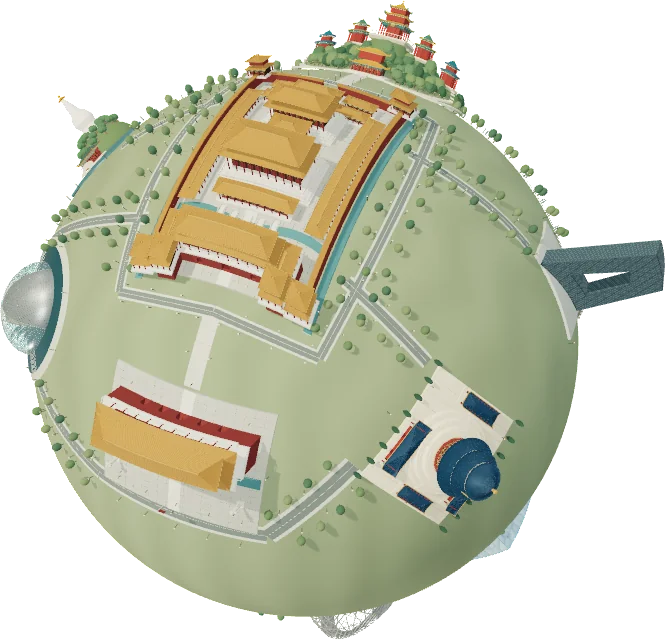
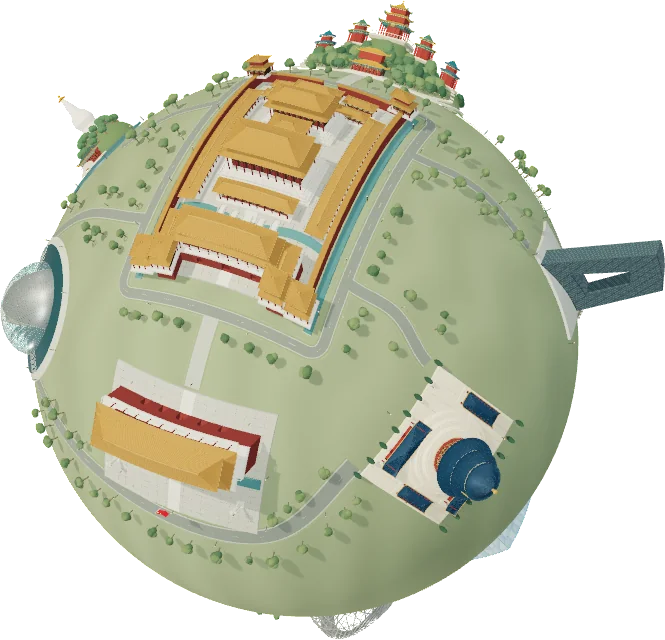
Refine Beijing road curves and natural roadside trees

Changed region(s): [[0.0602, 0.0938, 0.8722, 0.625], [0.0301, 0.5938, 0.5714, 0.9062], [0.5414, 0.125, 0.6015, 0.1562]]

diff --git a/web/beijing-axis.js b/web/beijing-axis.js
@@ -1,61 +1,108 @@
 import * as THREE from 'three';
 
-// Compressed city connections, not navigable real streets.
+// Compressed city connections, not navigable real streets. The ceremonial
+// axis stays straight; rounded corners and garden links soften its outskirts.
 export function createBeijingAxis(k,{radius,landmarks}){
   const g=new THREE.Group();g.name='beijing-axis-landscape';
-  const stone=k.mat('#c2c2b5',.98,0),edge=k.mat('#929a8b',.98,0),asphalt=k.mat('#727e78',.99,0),mark=k.mat('#d3cdb5',.94,0),pole=k.mat('#485b52',.88,0),lamp=k.mat('#ead8b3',.5,.1,'#f4d29b');lamp.userData.night.intensity=.65;
-  const bark=k.mat('#6a6251',1,0),leaves=['#4a6850','#617953','#72845d'].map(c=>k.mat(c,1,0));
-  const points=[],connections=[],roads=[];
+  const stone=k.mat('#a9ada0',.98,0),edge=k.mat('#969d8e',.98,0),asphalt=k.mat('#7b837b',.99,0),mark=k.mat('#b9bba6',.98,0),pole=k.mat('#485b52',.88,0),lamp=k.mat('#d8c6a5',.6,.04,'#f4d29b');lamp.userData.night.intensity=.65;
+  const bark=k.mat('#6d6551',1,0),leaves=['#4e694c','#59734e','#657c53','#708359'].map(c=>k.mat(c,1,0));
+  const verge=k.mat('#ffffff',1,0);verge.vertexColors=true;verge.userData.terrainTint=true;
+  const groundColor=new THREE.Color('#8f9c79'),shadeColor=new THREE.Color('#7c8d68');
+  const points=[],connections=[],roads=[],routes=[],plantings=[];
+  const random=n=>{const x=Math.sin(n*127.1+19.7)*43758.5453;return x-Math.floor(x);};
   const local=(id,x,z)=>{const model=landmarks.get(id);model.updateWorldMatrix(true,true);return model.localToWorld(new THREE.Vector3(x,Math.sqrt(radius*radius-x*x-z*z)-radius,z)).normalize();};
-  function ribbon(route,width,material,lift){
-    const verts=[],ids=[];
+  const pose=(pos,lift=.010)=>{const group=new THREE.Group();group.position.copy(pos).multiplyScalar(radius+lift);group.quaternion.setFromUnitVectors(new THREE.Vector3(0,1,0),pos);g.add(group);return group;};
+  function ribbon(route,width,material,lift,offset=0){
+    const verts=[],ids=[],colors=[],soft=material===verge;
     for(let i=0;i<route.length;i++){
       const p=route[i],t=route[Math.min(route.length-1,i+1)].clone().sub(route[Math.max(0,i-1)]).normalize(),across=new THREE.Vector3().crossVectors(t,p).normalize();
-      for(const s of [-1,1])verts.push(...p.clone().multiplyScalar(radius).addScaledVector(across,s*width/2).normalize().multiplyScalar(radius+lift).toArray());
-      if(i<route.length-1){const a=i*2;ids.push(a,a+1,a+2,a+1,a+3,a+2);}
+      const bands=soft?[-.5,-.37,.37,.5]:[-.5,.5];
+      for(const s of bands){verts.push(...p.clone().multiplyScalar(radius).addScaledVector(across,s*width+offset).normalize().multiplyScalar(radius+lift).toArray());if(soft){const c=Math.abs(s)>.4?groundColor:shadeColor;colors.push(c.r,c.g,c.b);}}
+      if(i<route.length-1)for(let j=0;j<bands.length-1;j++){const a=i*bands.length+j;ids.push(a,a+1,a+bands.length,a+1,a+bands.length+1,a+bands.length);}
     }
-    const geo=new THREE.BufferGeometry();geo.setAttribute('position',new THREE.Float32BufferAttribute(verts,3));geo.setIndex(ids);geo.computeVertexNormals();material.side=THREE.DoubleSide;k.mesh(g,geo,material);
+    const geo=new THREE.BufferGeometry();geo.setAttribute('position',new THREE.Float32BufferAttribute(verts,3));geo.setIndex(ids);if(soft)geo.setAttribute('color',new THREE.Float32BufferAttribute(colors,3));geo.computeVertexNormals();material.side=THREE.DoubleSide;k.mesh(g,geo,material);
   }
-  function link(a,b,width=.095,{road=false,trees=false,record=false}={}){
-    const len=a.angleTo(b)*radius,steps=Math.max(16,Math.ceil(len/.025)),route=Array.from({length:steps+1},(_,i)=>a.clone().lerp(b,i/steps).normalize());
-    ribbon(route,width,stone,.014);
-    if(road){ribbon(route,width*.65,asphalt,.015);ribbon(route,.0023,mark,.016);}
-    for(let i=2;i<steps-1;i++){
-      const p=route[i],tangent=route[i+1].clone().sub(route[i-1]).normalize(),across=new THREE.Vector3().crossVectors(tangent,p).normalize();
-      if(!road&&i%4===0){const bar=new THREE.Group();bar.position.copy(p).multiplyScalar(radius+.015);bar.quaternion.setFromRotationMatrix(new THREE.Matrix4().makeBasis(across,p,new THREE.Vector3().crossVectors(across,p)));k.box(bar,width,.0008,.0012,edge);g.add(bar);}
-      if(i%9===0)for(const sign of [-1,1]){
-        const pos=p.clone().multiplyScalar(radius).addScaledVector(across,sign*width*.68).normalize(),item=new THREE.Group();item.position.copy(pos).multiplyScalar(radius+.013);item.quaternion.setFromUnitVectors(new THREE.Vector3(0,1,0),pos);
-        k.cyl(item,.002,.0026,.042,pole,0,.021,0,6);k.box(item,.008,.004,.008,lamp,0,.044,0);g.add(item);
-      }
-      if(trees&&i%7===0)for(const sign of [-1,1]){
-        const pos=p.clone().multiplyScalar(radius).addScaledVector(across,sign*(width*.5+.070)).normalize(),tree=new THREE.Group();tree.position.copy(pos).multiplyScalar(radius+.008);tree.quaternion.setFromUnitVectors(new THREE.Vector3(0,1,0),pos);
-        k.cyl(tree,.003,.004,.040,bark,0,.020,0,6);const crown=k.mesh(tree,new THREE.IcosahedronGeometry(.030,1),leaves[i%3],0,.055,0);crown.scale.set(1,1.22,1);g.add(tree);
-      }
-    }
-    const world=route.map(p=>p.clone().multiplyScalar(radius+.014).toArray());if(record)points.push(...world);else roads.push({width,road,points:world});return [world[0],world.at(-1)];
+  function routeBetween(a,b,bend=0){
+    const steps=Math.max(16,Math.ceil(a.angleTo(b)*radius/.016)),across=new THREE.Vector3().crossVectors(a,b).normalize();
+    return Array.from({length:steps+1},(_,i)=>{const t=i/steps;return a.clone().lerp(b,t).addScaledVector(across,Math.sin(t*Math.PI)**2*bend/radius).normalize();});
   }
+  function addRoute(route,width,{road=false,trees=false,record=false,avenue=false}={}){
+    // Uniform arc spacing keeps paving joints and vegetation independent of
+    // how many control points a bend uses.
+    const lengths=[0];for(let i=1;i<route.length;i++)lengths.push(lengths.at(-1)+route[i].angleTo(route[i-1])*radius);
+    const total=lengths.at(-1),count=Math.max(2,Math.ceil(total/.016)),spaced=[];let segment=1;
+    for(let i=0;i<=count;i++){const distance=i/count*total;while(segment<route.length-1&&lengths[segment]<distance)segment++;const f=(distance-lengths[segment-1])/Math.max(1e-8,lengths[segment]-lengths[segment-1]);spaced.push(route[segment-1].clone().lerp(route[segment],f).normalize());}route=spaced;
+    const world=route.map(p=>p.clone().multiplyScalar(radius+.014).toArray());
+    routes.push({route,width,road,trees,avenue});if(record)points.push(...world);else roads.push({width,road,points:world});return [world[0],world.at(-1)];
+  }
+  const link=(a,b,width=.09,options={})=>addRoute(routeBetween(a,b,options.bend||0),width,options);
   for(const [from,fx,fz,to,tx,tz] of [
     ['tiananmen',0,-.45,'palace',0,1.01],
     ['palace',0,-1.01,'jingshan',0,.56],
     ['jingshan',0,-.56,'drum',0,.40],
-  ])connections.push({from,to,ends:link(local(from,fx,fz),local(to,tx,tz),.115,{record:true})});
-  // Ring walks outside the palace moat connect its entrances and parks.
-  for(const s of [-1,1]){
-    const corners=[[0,1.04],[s*.72,1.04],[s*.72,-1.04],[0,-1.04]];
-    for(let i=0;i<corners.length-1;i++)link(local('palace',...corners[i]),local('palace',...corners[i+1]),.085,{road:true,trees:i===1});
+  ])connections.push({from,to,ends:link(local(from,fx,fz),local(to,tx,tz),.105,{record:true})});
+  const ring=[],corners=[[-.72,1.04],[.72,1.04],[.72,-1.04],[-.72,-1.04]];
+  for(let i=0;i<4;i++){
+    const a=new THREE.Vector2(...corners[i]),prev=new THREE.Vector2(...corners[(i+3)%4]),next=new THREE.Vector2(...corners[(i+1)%4]);
+    const start=a.clone().addScaledVector(prev.clone().sub(a).normalize(),.105),end=a.clone().addScaledVector(next.clone().sub(a).normalize(),.105);
+    if(ring.length){const last=ring.at(-1);for(let j=1;j<18;j++)ring.push(last.clone().lerp(start,j/18));}
+    ring.push(...new THREE.QuadraticBezierCurve(start,a,end).getPoints(18));
   }
-  const chain=(anchors,width,options)=>{for(let i=0;i<anchors.length-1;i++)link(local(...anchors[i]),local(...anchors[i+1]),width,options);};
-  // Chang'an frontage and side connections terminate at landmark edges.
-  chain([['theatre',0,.52],['tiananmen',-.64,.47]],.15,{road:true,trees:true});
-  chain([['tiananmen',-.64,.47],['tiananmen',.64,.47]],.15,{road:true});
-  chain([['tiananmen',.64,.47],['heaven',-.47,.40]],.15,{road:true,trees:true});
-  chain([['theatre',0,-.53],['palace',-.72,.56]],.095,{road:true,trees:true});
-  chain([['palace',-.72,-.55],['beihai',.50,.33]],.095,{road:true,trees:true});
-  chain([['heaven',-.47,-.40],['palace',.72,.57]],.095,{road:true,trees:true});
-  chain([['palace',.72,-.54],['cctv',-.44,.27]],.095,{road:true,trees:true});
-  chain([['beihai',0,-.39],['jingshan',-.56,.05]],.078,{trees:true});
-  chain([['cctv',0,-.37],['jingshan',.56,.05]],.078,{trees:true});
-  chain([['nest',.47,0],['watercube',-.40,.10]],.14,{road:true,trees:true});
-  chain([['summer',.64,.10],['nest',-.54,.10]],.10,{trees:true});
-  k.merge(g);g.userData={connections,points,roads};g.traverse(o=>{if(o.isMesh){o.castShadow=[pole,bark,...leaves].includes(o.material);o.receiveShadow=true;}});return g;
+  const last=ring.at(-1),first=ring[0];for(let j=1;j<=20;j++)ring.push(last.clone().lerp(first,j/20));
+  addRoute(ring.map(p=>local('palace',p.x,p.y)),.078,{road:true,trees:true,avenue:true});
+  const anchors=[['theatre',0,.52],['tiananmen',-.64,.47],['tiananmen',.64,.47],['heaven',-.47,.40]].map(p=>local(...p).multiplyScalar(radius));
+  const frontage=new THREE.CatmullRomCurve3(anchors,false,'centripetal');addRoute(frontage.getSpacedPoints(190).map(p=>p.normalize()),.13,{road:true,trees:true,avenue:true});
+  const joins=[
+    [['theatre',0,-.53],['palace',-.72,.56],.082,.07,true],
+    [['palace',-.72,-.55],['beihai',.50,.33],.082,-.065,true],
+    [['heaven',-.47,-.40],['palace',.72,.57],.082,-.07,true],
+    [['palace',.72,-.54],['cctv',-.44,.27],.082,.07,true],
+    [['beihai',0,-.39],['jingshan',-.56,.05],.060,.085,false],
+    [['cctv',0,-.37],['jingshan',.56,.05],.060,-.085,false],
+    [['nest',.47,0],['watercube',-.40,.10],.12,.045,true],
+    [['summer',.64,.10],['nest',-.54,.10],.075,-.09,false],
+  ];
+  for(const [a,b,width,bend,road]of joins)link(local(...a),local(...b),width,{road,bend,trees:true});
+  // All paving is known before planting, so no tree can occupy a later road.
+  for(const {route,width,road,avenue}of routes){
+    ribbon(route,width+.035,verge,.008);ribbon(route,width,stone,.014);
+    if(road){ribbon(route,width*.84,asphalt,.015);if(avenue)for(let i=6;i<route.length-6;i+=11)ribbon(route.slice(i,i+4),.0013,mark,.016);}
+    else for(let i=4;i<route.length-3;i+=5){const p=route[i],t=route[i+1].clone().sub(route[i-1]).normalize(),across=new THREE.Vector3().crossVectors(t,p).normalize(),bar=pose(p,.015);bar.quaternion.setFromRotationMatrix(new THREE.Matrix4().makeBasis(across,p,new THREE.Vector3().crossVectors(across,p)));k.box(bar,width*.9,.0005,.0006,edge);}
+  }
+  const keepouts={palace:[.66,1.02],tiananmen:[.61,.50],jingshan:[.78,.63],beihai:[.52,.53],theatre:[.70,.58],heaven:[.52,.47],cctv:[.46,.42],drum:[.44,.45],summer:[.67,.65],nest:[.59,.50],watercube:[.43,.40]};
+  const boxes=Object.entries(keepouts).map(([id,bounds])=>({bounds,normal:landmarks.get(id).position.clone().normalize(),inverse:landmarks.get(id).matrixWorld.clone().invert()}));
+  const clearOfBuildings=(p,r)=>!boxes.some(b=>{if(p.dot(b.normal)<.65)return false;const q=p.clone().multiplyScalar(radius).applyMatrix4(b.inverse);return Math.abs(q.x)<b.bounds[0]+r&&Math.abs(q.z)<b.bounds[1]+r;});
+  const nearRoad=(p,margin)=>routes.some(r=>r.route.some(q=>q.distanceToSquared(p)<((r.width/2+margin)/radius)**2));
+  function tree(pos,seed,scale){
+    const tree=pose(pos),height=.062*scale,spread=.033*scale,crownWidth=.86+random(seed+53)*.24;
+    k.cyl(tree,.0028*scale,.0042*scale,height*.75,bark,0,height*.375,0,7);
+    for(let i=0;i<3;i++){const a=i*2.25+seed*.71,x=Math.cos(a)*spread*.37,z=Math.sin(a)*spread*.37;k.beam(tree,[0,height*.40,0],[x,height*.83,z],.0017*scale,bark);}
+    // Offset lobes form an uneven broadleaf crown instead of a solid ball.
+    for(let i=0;i<5;i++){
+      const a=i*2.399+seed,r=i===0?0:spread*(.34+random(seed+i+17)*.27),geo=new THREE.IcosahedronGeometry(spread*(i===0?.88:.55+random(seed+i+31)*.18),2),v=geo.attributes.position;
+      for(let j=0;j<v.count;j++){const x=v.getX(j),y=v.getY(j),z=v.getZ(j),n=1+.06*Math.sin(x*137+seed)*Math.cos(z*151-y*123);v.setXYZ(j,x*n,y*n,z*n);}geo.computeVertexNormals();
+      const crown=k.mesh(tree,geo,leaves[Math.floor(random(seed+i)*leaves.length)],Math.cos(a)*r,height+(i===0?.012:(random(seed+i)-.3)*.023)*scale,Math.sin(a)*r);crown.scale.set(crownWidth,.69+random(seed+i+9)*.34,.84+random(seed+i+4)*.24);
+    }
+    plantings.push({position:pos.clone().multiplyScalar(radius+.010).toArray(),radius:spread*1.2,height:height+spread,seed});
+  }
+  let seed=1;
+  for(const {route,width,trees,avenue}of routes){
+    if(!trees)continue;
+    const distance=route.reduce((sum,p,i)=>sum+(i?p.angleTo(route[i-1])*radius:0),0),count=Math.floor(distance/.16);
+    for(let i=1;i<count;i++)for(const side of [-1,1]){
+      seed++;if(random(seed)<(avenue?.10:.25))continue;
+      const t=(i+(random(seed+4)-.5)*.48)/count,index=Math.max(1,Math.min(route.length-2,Math.round(t*(route.length-1)))),p=route[index],tangent=route[index+1].clone().sub(route[index-1]).normalize(),across=new THREE.Vector3().crossVectors(tangent,p).normalize();
+      const scale=.82+random(seed+1)*.45,offset=width/2+.074+random(seed+2)*(avenue?.025:.060),pos=p.clone().multiplyScalar(radius).addScaledVector(across,side*offset).normalize();
+      if(!clearOfBuildings(pos,.044*scale)||nearRoad(pos,.044*scale)||plantings.some(q=>pos.clone().multiplyScalar(radius).distanceTo(new THREE.Vector3(...q.position))<.085))continue;
+      tree(pos,seed,scale);
+      // A few companion trees make garden links read as groups, not a grid.
+      if(!avenue&&random(seed+8)>.65){const other=pos.clone().multiplyScalar(radius).addScaledVector(across,side*.08).addScaledVector(tangent,.06).normalize();if(clearOfBuildings(other,.04)&&!nearRoad(other,.04)&&!plantings.some(q=>other.clone().multiplyScalar(radius).distanceTo(new THREE.Vector3(...q.position))<.085))tree(other,seed+100,.72+random(seed+11)*.26);}
+    }
+    const lamps=Math.floor(distance/.34);
+    for(let i=1;i<lamps;i++){
+      const index=Math.min(route.length-2,Math.max(1,Math.round(i/lamps*(route.length-1)))),p=route[index],t=route[index+1].clone().sub(route[index-1]).normalize(),across=new THREE.Vector3().crossVectors(t,p).normalize(),pos=p.clone().multiplyScalar(radius).addScaledVector(across,(i%2?1:-1)*(width/2+.014)).normalize();
+      if(!clearOfBuildings(pos,.008))continue;const item=pose(pos,.013);k.cyl(item,.0018,.0025,.042,pole,0,.021,0,6);k.box(item,.006,.003,.006,lamp,0,.044,0);
+    }
+  }
+  k.merge(g);g.userData={connections,points,roads,plantings};g.traverse(o=>{if(o.isMesh){o.castShadow=[pole,bark,...leaves].includes(o.material);o.receiveShadow=true;}});return g;
 }

diff --git a/README.md b/README.md
@@ -1,6 +1,6 @@
 # 一起去 · Travel Planet
 
-用可旋转的 3D 城市星球发现景点，再和朋友一起决定怎么旅行。当前版本 **0.55.93**，支持桌面和手机网页。
+用可旋转的 3D 城市星球发现景点，再和朋友一起决定怎么旅行。当前版本 **0.55.94**，支持桌面和手机网页。
 
 **[杭州旅行](https://43.139.249.151/travel/)** · **[上海旅行](https://43.139.249.151/travel/shanghai-trip.html)** · **[北京地图](https://43.139.249.151/travel/beijing.html)** · **[广州地图](https://43.139.249.151/travel/guangzhou.html)** · **[武汉旅行](https://43.139.249.151/travel/wuhan-trip.html)** · **[武汉纯地图](https://43.139.249.151/travel/wuhan.html)** · **[上海纯地图](https://43.139.249.151/travel/shanghai.html)** · **[深圳地图](https://43.139.249.151/travel/shenzhen.html)** · **[顺德地图](https://43.139.249.151/travel/shunde.html)** · **[长沙地图](https://43.139.249.151/travel/changsha.html)** · **[西安地图](https://43.139.249.151/travel/xian.html)** · **[成都地图](https://43.139.249.151/travel/chengdu.html)** · **[重庆地图](https://43.139.249.151/travel/chongqing.html)** · **[南京地图](https://43.139.249.151/travel/nanjing.html)** · **[苏州地图](https://43.139.249.151/travel/suzhou.html)** · **[厦门地图](https://43.139.249.151/travel/xiamen.html)** · **[泉州地图](https://43.139.249.151/travel/quanzhou.html)** · **[青岛地图](https://43.139.249.151/travel/qingdao.html)** · **[天津地图](https://43.139.249.151/travel/tianjin.html)** · **[大理地图](https://43.139.249.151/travel/dali.html)** · **[桂林地图](https://43.139.249.151/travel/guilin.html)** · **[三亚地图](https://43.139.249.151/travel/sanya.html)** · **[香港地图](https://43.139.249.151/travel/hongkong.html)** · **[澳门地图](https://43.139.249.151/travel/macau.html)**
 

diff --git a/docs/BEIJING_REFERENCES.md b/docs/BEIJING_REFERENCES.md
@@ -100,3 +100,14 @@
 ![故宫夜景](images/beijing-palace-night-093.png)
 
 ![天安门与国旗](images/beijing-flag-093.png)
+
+
+## 道路与树群（0.55.94）
+
+保留中轴的直线秩序，将宫城外环和外围连接路改为连续弯道，缩窄浅色路缘，降低铺地和标线的对比。道路边缘增加与地表融合的草带；道路是缩微景观的连接关系，不代表现实导航路线。
+
+路边树由单球树冠改为带分枝的多团树冠，树高、冠幅、朝向和间距有变化。主路保留较规整的行道树，园路形成疏密变化；避开道路铺装、建筑入口、水面和景点占地。草带随昼夜切换匹配地表色。
+
+![北京道路与树群全景](images/beijing-roads-094.png)
+
+![天安门前路边树](images/beijing-trees-094.png)
